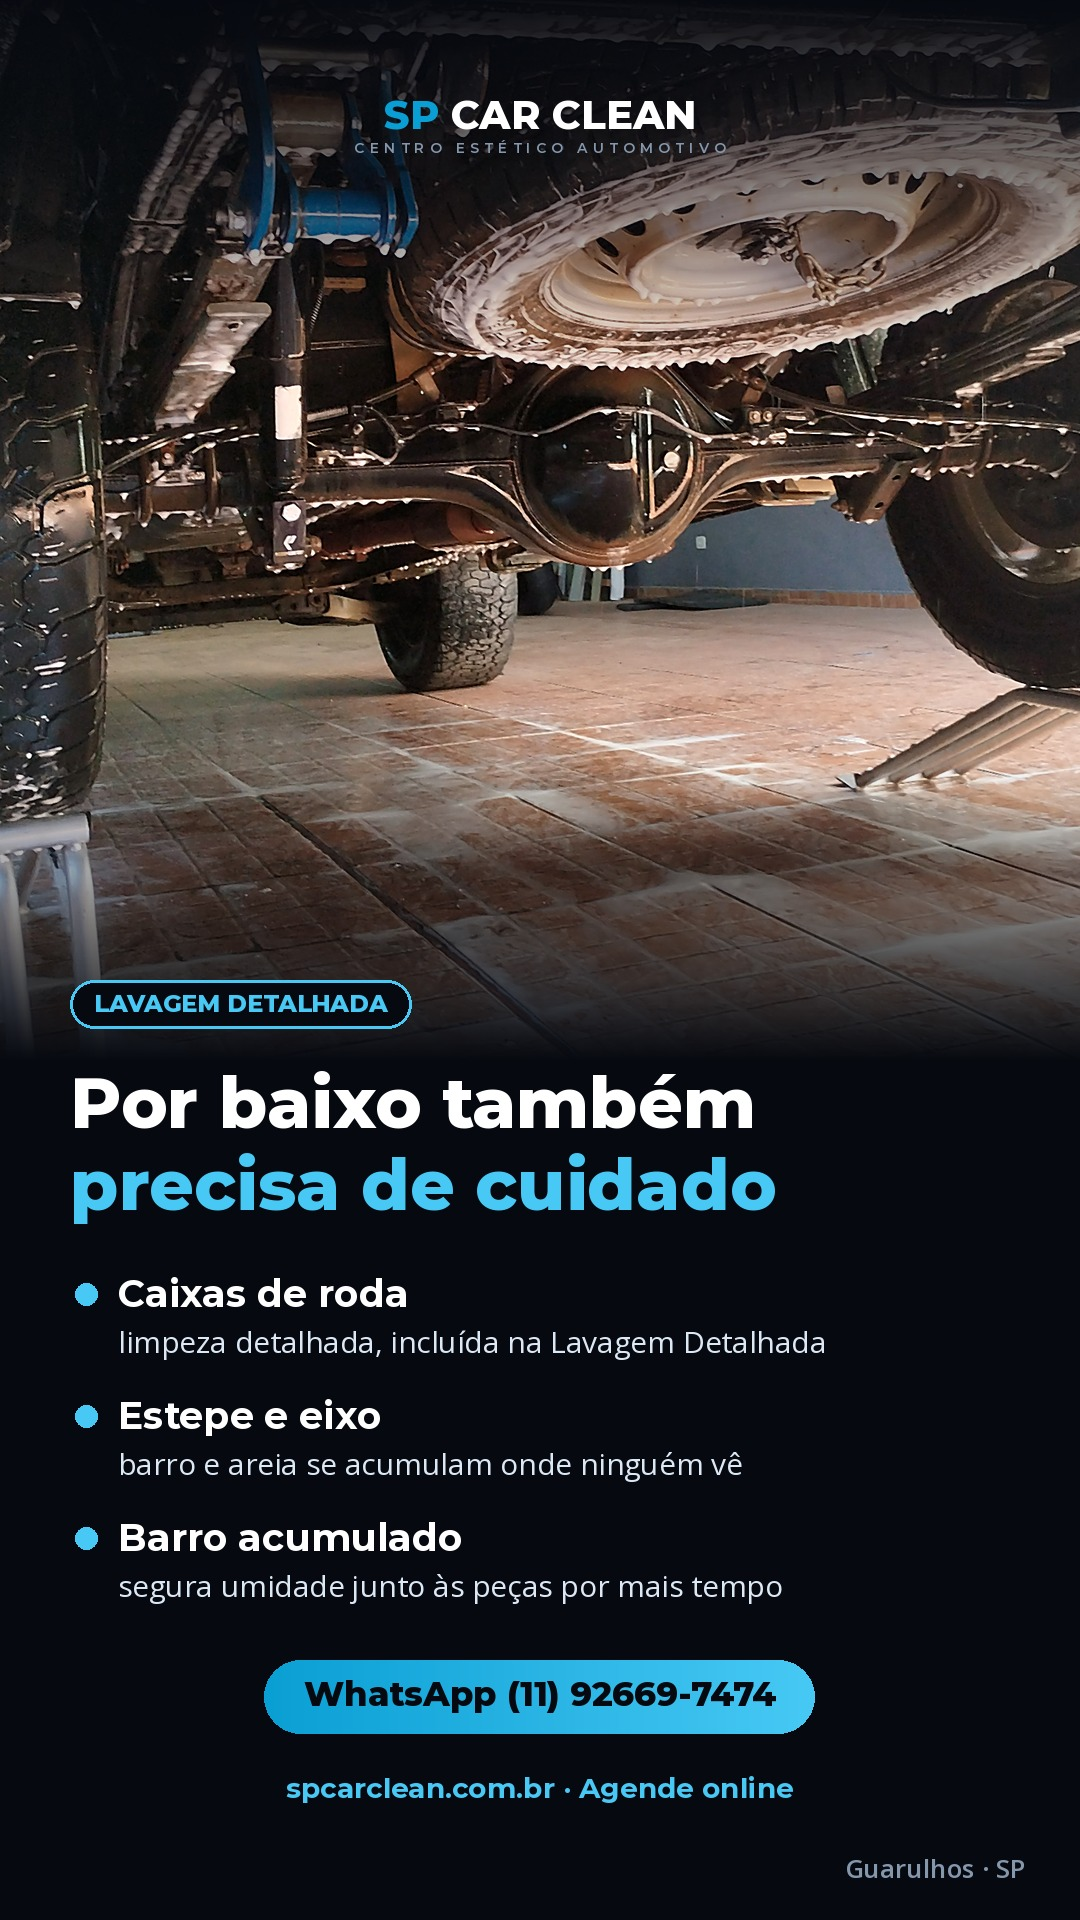
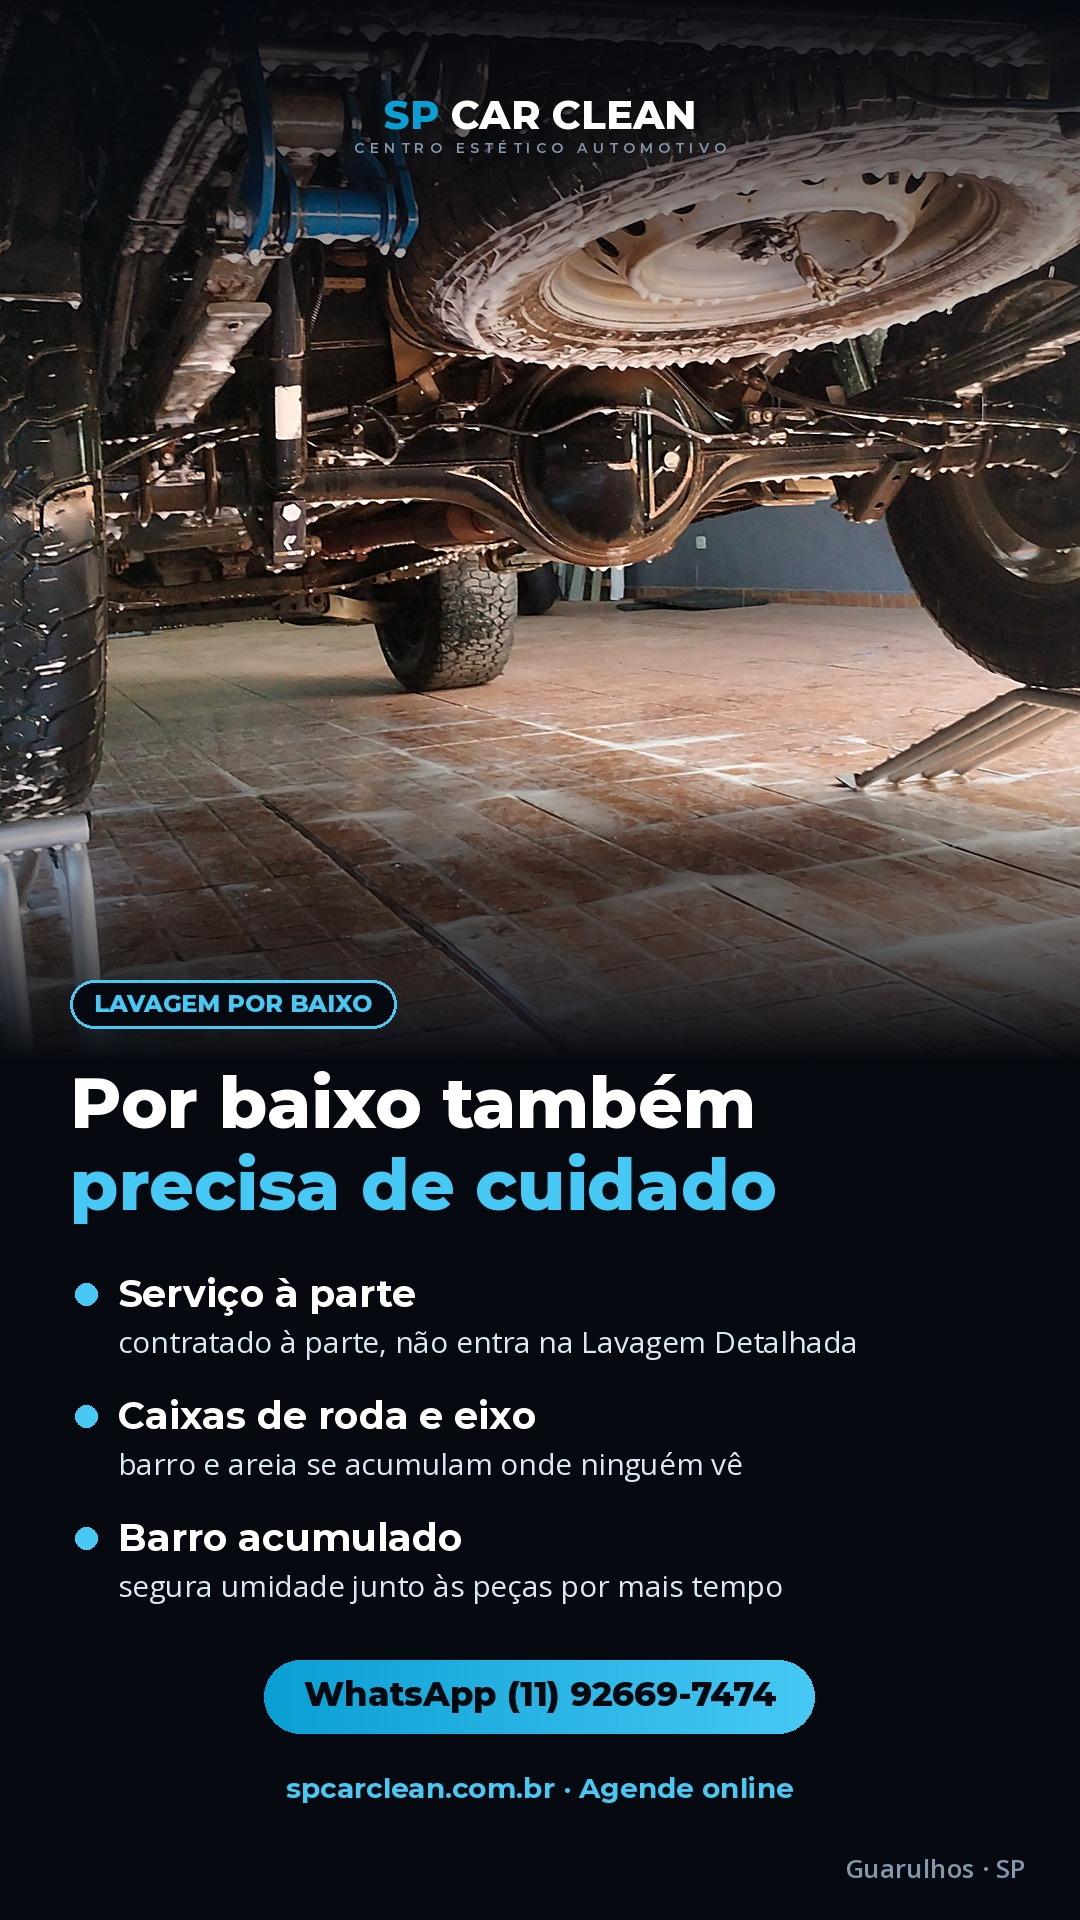
Semana 5: story de quarta vira serviço à parte (lavagem por baixo)
O story de 11/11 passa a apresentar a lavagem por baixo como serviço
à parte, não como item da Lavagem Detalhada: selo LAVAGEM POR BAIXO e
tópico Serviço à parte. Demais artes mantidas.

Claude-Session: https://claude.ai/code/session_011h89bjS2wg7mSRsZmRUgup

Changed region(s): [[0.1222, 0.6562, 0.55, 0.75], [0.5806, 0.6875, 0.7944, 0.7188], [0.2139, 0.5, 0.3972, 0.5312]]

diff --git a/assets/social/semana5/gerar_artes_semana5.py b/assets/social/semana5/gerar_artes_semana5.py
@@ -188,7 +188,7 @@ footer(img, S - 58)
 save(img, 'semana5-01-reparo-trinca-no-local.jpg')
 
 
-# ===== POST 2 · Qua 11/11 18:00 · Story · Por baixo também precisa de cuidado =====
+# ===== POST 2 · Qua 11/11 18:00 · Story · Lavagem por baixo: serviço à parte =====
 W, H = 1080, 1920
 ph = treat('raw/picape-por-baixo_WA0031.jpeg')
 img = Image.new('RGBA', (W, H), BG + (255,))
@@ -198,11 +198,11 @@ img = scrim(img, 0, 380, 250, 0)
 img = scrim(img, 760, 1060, 0, 255)
 logo(img, 0, 90, 40, center=True)
 d = ImageDraw.Draw(img)
-outline_pill(img, 70, 980, 'LAVAGEM DETALHADA', M(800, 24), col=LBLUE, fill=BG)
+outline_pill(img, 70, 980, 'LAVAGEM POR BAIXO', M(800, 24), col=LBLUE, fill=BG)
 d.text((70, 1060), 'Por baixo também', font=M(800, 70), fill=WHITE)
 d.text((70, 1142), 'precisa de cuidado', font=M(800, 70), fill=LBLUE)
-itens = [('Caixas de roda', 'limpeza detalhada, incluída na Lavagem Detalhada'),
-         ('Estepe e eixo', 'barro e areia se acumulam onde ninguém vê'),
+itens = [('Serviço à parte', 'contratado à parte, não entra na Lavagem Detalhada'),
+         ('Caixas de roda e eixo', 'barro e areia se acumulam onde ninguém vê'),
          ('Barro acumulado', 'segura umidade junto às peças por mais tempo')]
 y = 1270
 for tit, sub in itens:
